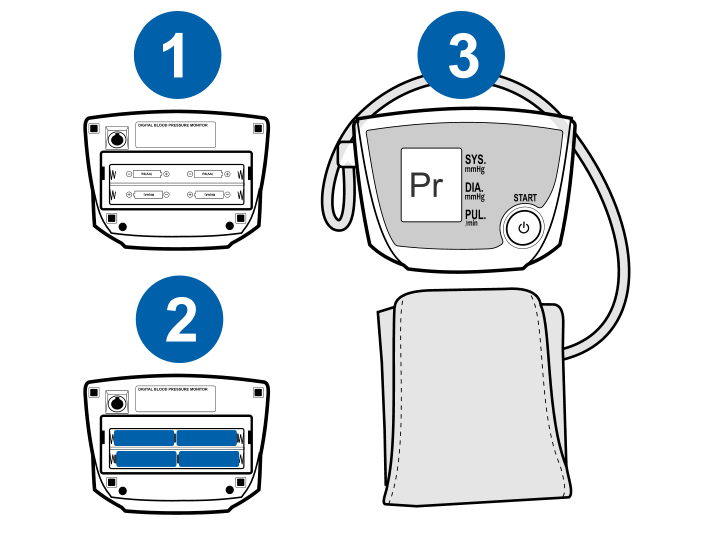
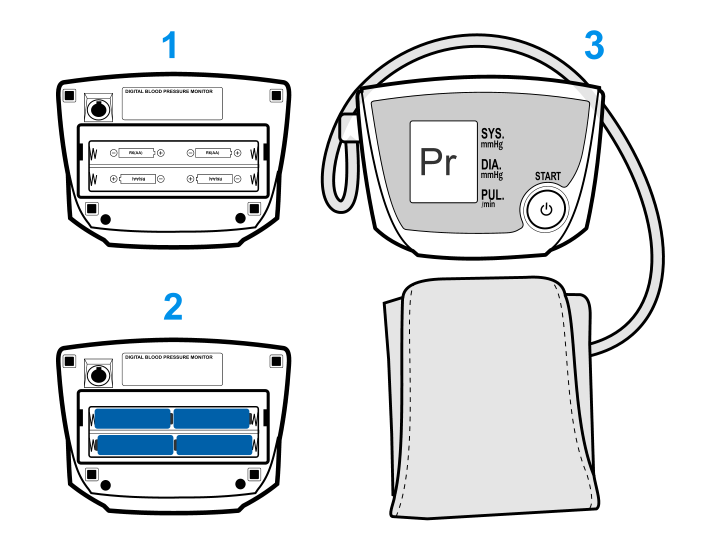
...

Changed region(s): [[0.4284, 0.0, 0.9485, 0.9778], [0.0612, 0.0, 0.4284, 0.4741], [0.0612, 0.5037, 0.4284, 0.9778]]

diff --git a/public/mobile/react/www/app/devices/styles/bloodpressure.css b/public/mobile/react/www/app/devices/styles/bloodpressure.css
@@ -13,12 +13,30 @@
 }
 
 .use-steps {
-    text-align:left;
+    counter-reset: my-badass-counter;
+    text-align: left;
+    list-style-type: none;
+}
+
+.use-steps > li {
+    padding-left:10px;
+    position:relative;
+    padding-bottom:15px;
+}
+
+.use-steps > li:before {
+    content: counter(my-badass-counter);
+    counter-increment: my-badass-counter;
+    position:absolute;
+    left:-30px;
+    font-size:24px;
 }
 
 .carousel-caption.first-step {
     margin-bottom:0;
 }
+
+
 
 /* -------------------------------------- *\
     #Landscape Orientation Only
